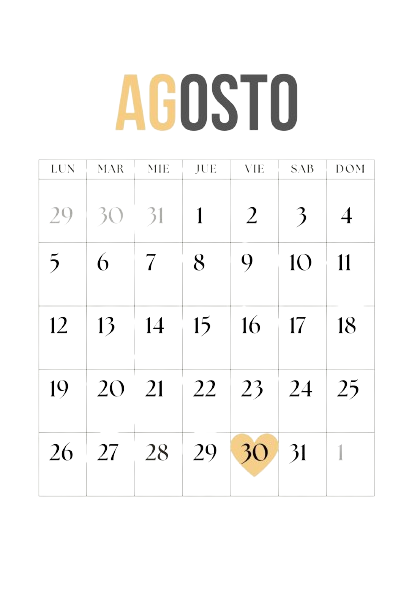
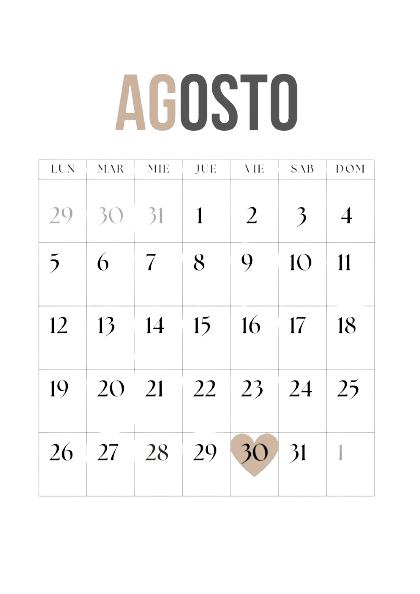
tres

Changed region(s): [[0.2786, 0.1212, 0.4333, 0.2424], [0.5262, 0.7273, 0.681, 0.8182]]

diff --git a/style.css b/style.css
@@ -32,11 +32,11 @@
   .cr-time > span {
       font-size: 18px;
       font-weight: bold;
-      color: #F5CC81;
+      color: #CCB29C;
       
   }
   .cr-desc {
-      color: #34593c;
+      color: #4c4c4c;
       font-family: 'Julius Sans One', sans-serif;
       font-size: 10px;
       font-weight: 700;
@@ -157,10 +157,10 @@ margin-left: 5%;
 
 
   .cajafoto{
-    background-color: #F5CC81;
+    background-color: #201f1f;
   padding: 35px;
-  background-image: url(./imagenes/efecto.gif);
-  background-size: 50%;
+  background-image: url(./imagenes/papelitos.gif);
+  background-size: 20%;
   }
 
 
@@ -176,8 +176,25 @@ margin-left: 5%;
          font-size: 20px;
          color: #888888;
          font-weight: 600;
-         
+         margin-top: 10%;
   }
+
+.fiesta{
+  text-align: center;
+  font-family: 'Alex Brush', cursive;
+       font-size: 30px;
+       color: #888888;
+       margin-top: 30%; 
+       margin: 5%;
+       margin-top: -165%;
+       font-weight: 500;
+}
+.copas{
+  width: 10%;
+  margin-left: 45%;
+  margin-top: -3%;
+  
+}
 
 
 .calendario{
@@ -189,13 +206,17 @@ margin-left: 5%;
   font-family: 'Julius Sans One', sans-serif;
        font-size: 18px;
        color: #888888;
-       margin-top: -160%;
        font-weight: 600;
+       margin-top: 10%;
        
 }
 
 
-
+.linea{
+  width: 60%;
+  margin-left: 20%;
+  
+}
 .click {
   padding: 2px 10px;
   margin-top: 20px;
@@ -208,7 +229,7 @@ margin-left: 5%;
   box-shadow: 1px 1px 30px -5px#a9a9a9; 
   cursor: pointer;
   margin-left: 32%;
-  background-color: #f5cc81de;
+  background-color: #CCB29C;
 }
 
 

diff --git a/index.html b/index.html
@@ -24,16 +24,12 @@
 </head>
 
 <body>
-  <div class="caja-audio">
-    <h5 class="Play">Dale Play</h5>
-    <audio class="audio" controls autoplay>
-      <source src=".">
-    </audio>
-</div>
+  
+  
 
 
   <div>
-    <img class="portada"  src="./imagenes/PORTADA.jpg" alt="" srcset="">
+    <img class="portada"  src="./imagenes/PORTADA.png" alt="" srcset="">
   </div>
   
  
@@ -74,7 +70,7 @@
     </div>
 
  
-  <img class="corazon" src="./imagenes/corazon (2).png" alt="">
+ 
   
 
 
@@ -131,9 +127,15 @@
 
 <img class="fondo" src="./imagenes/FONDO.png" alt="">
 
+
+
+
+<h2 class="fiesta">La Fiesta</h2>
+<img class="copas" src="./imagenes/fiesta.png" alt="">
+
+
+<hr class="linea">
 <p class="parrafo2">Horario: 21:30 Hs <br> Salón: Golf Club (Salón Blanco) <br>Dirección: Camino de Cintura 9054 <br> (9 de Abril) </p>
-
-
 <div class="boton">
   <button class="click" id="btn">Ver ubicación</button>
 </div>

diff --git a/main.js b/main.js
@@ -1,5 +1,5 @@
 
-let diaEvento = new Date('August 3, 2024 21:30:00').getTime();
+let diaEvento = new Date('August 30, 2024 21:30:00').getTime();
 let boton = document.querySelector("#btn")
 
 
@@ -71,7 +71,7 @@ function diaEventoAhora () {
       icon: 'success',
       html:
         'INGRESÁ' +
-        '<iframe src="https://www.google.com/maps/embed?pb=!1m17!1m12!1m3!1d3280.238898715504!2d-58.28297802425564!3d-34.69915387292032!2m3!1f0!2f0!3f0!3m2!1i1024!2i768!4f13.1!3m2!1m1!2zMzTCsDQxJzU3LjAiUyA1OMKwMTYnNDkuNSJX!5e0!3m2!1ses!2sar!4v1715124367159!5m2!1ses!2sar" width="600" height="450" style="border:0;" allowfullscreen="" loading="lazy" referrerpolicy="no-referrer-when-downgrade"></iframe>' +
+        '' +
         'Podes ampliar el mapa',
         
         
